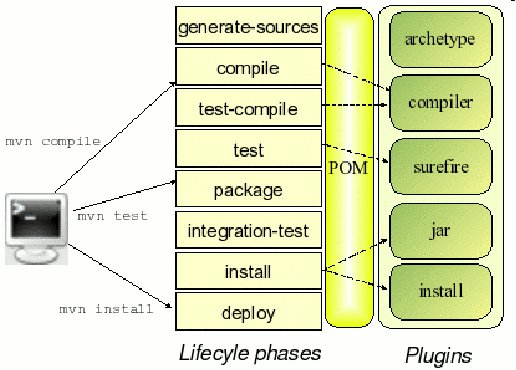
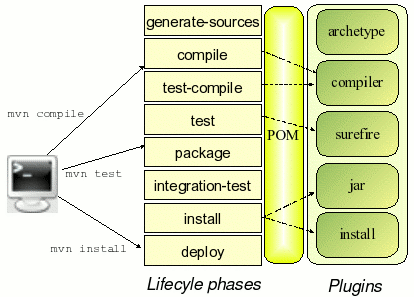
update tp

diff --git a/slides/index.html b/slides/index.html
@@ -62,14 +62,6 @@
 					</p>
 				</section>
 				<section>
-					<h2>Apports de Maven</h2>
-					<ul>
-						<li>Amélioration du processus de développement en suivant des bonnes pratiques</li>
-						<li>Automatisation et maîtrise du processus de construction</li>
-						<li>Meilleure fiabilité des livrables grâce notamment à l'intégration continue</li>
-					</ul>
-				</section>
-				<section>
 					<h2>De Make à Maven!</h2>
 					<img width="320" src="img/maven_evolution.jpg" alt="Maven Evolution">
 				</section>
@@ -79,23 +71,6 @@
 						<li>De l’expérience et des insuffisances de Ant </li>
 						<li>Du besoin de capitalisation des connaissances de la communauté Apache en terme de gestion de projet logiciel</li>
 						<li>Maven 3.0 : première release en octobre 2012</li>
-					</ul>
-				</section>
-				<section>
-					<h2>Ant</h2>
-					<ul>
-						<li>Rapide et simple au départ</li>
-						<li>Coût de maintenance et complexification lors d’évolutions des projets (surtout si larges)</li>
-						<li>Limitations (boucles, tests complexes, …)</li>
-					</ul>
-				</section>
-				<section>
-					<h2>Maven</h2>
-					<ul>
-						<li>Coût de prise en main mais vite rentabilisé</li>
-						<li>Plus haut niveau</li>
-						<li>Plus réutilisable</li>
-						<li><em>Convention over Configuration</em></li>
 					</ul>
 				</section>
 				<section>
@@ -134,6 +109,15 @@
 					</code></pre>
 				</section>
 				<section>
+					<h2>Convention over Configuration</h2>
+					<ul>
+						<li>src/main/java</li>
+						<li>src/main/resources</li>
+						<li>src/test/java</li>
+						<li>...</li>
+					</ul>
+				</section>
+				<section>
 					<h2>Spécifier très précisément vos dépendances avec Maven</h2>
 					<ul>
 						<li>Nom de la dépendance : groupId & artifactId</li>
@@ -161,9 +145,52 @@
 					</small>
 				</section>
 				<section>
+					<h2>Les mains dans le cambouis....</h2>
+					<h4>Installer Maven sur votre poste !</h4>
+					<ul>
+						<li>Dezipper l'archive apache-maven-3.0.4-bin.zip, soit <em>M2_HOME</em> ce répertoire</li>
+						<li>Settez la variable d'environnement <em>M2_HOME</em> et mettez à jour votre <em>PATH</em>
+						<li>Testez la ligne de commande suivante: <br/>
+						</li><code class="xml">mvn -version</code>
+					</ul>
+				</section>
+				<section>
+					<h2>Les mains dans le cambouis....</h2>
+					<h4>Comprende les fichiers de configuration!</h4>
+					<ul>
+						<li><em>M2_HOME</em>\conf\settings.xml: situé parmi les binaries Maven, configuration par poste </li>
+						<li>HOME\.m2\settings.xml : situé dans le répertoire utilisateur, configuration propre à un utilisateur</li>
+					</ul>
+				</section>
+				<section>
+					<h2>Les mains dans le cambouis....</h2>
+					<h4>Votre premier projet Maven !</h4>
+					<ul>
+						<li>Lancer votre nouveau projet en laissant les paramètres par défaut
+												<pre><code class="xml">
+mvn archetype:generate
+-DarchetypeGroupId=org.apache.maven.archetypes
+-DgroupId=com.ninjasquad
+-DartifactId=my-app
+						</code>
+						</li>
+						<li>Aller voir votre projet (pom.xml, répertoires, fichiers)</li>
+					</ul>
+
+					
+				</section>
+				<section>
+					<h2>Gérer les fichiers de configuration : pom.xml</h2>
+					<ul>
+						<li>situé au niveau du projet et de chaque module</li>
+						<li>il décrit la configuration spécifique à un projet ou un module</li>
+					</ul>
+				</section>
+				<section>
 					<h2>Cycle de vie et goals Maven (1/2)</h2>
 					<ul>
 						<li>A chaque phase du cycle correspond un goal</li>
+						<li>Par exemple : <code class="xml">mvn compile</code></li>
 						<li>Un goal est une commande Maven demandant la réalisation d’une étape.</li>
 						<li>En lançant un goal, on passe également par toutes les étapes antérieures</li>
 						<li>Portée : compile, runtime, test, provided</li>
@@ -171,7 +198,7 @@
 				</section>
 				<section>
 					<h2>Cycle de vie et goals Maven (2/2)</h2>
-					<p><img width="421" src="img/cycle_maven.jpg" alt="cycle_maven"></p>
+					<p><img width="331" src="img/cycle_maven.jpg" alt="cycle_maven"></p>
 				</section>
 				<section>
 					<h2>Phases principales (1/2)</h2>
@@ -191,43 +218,99 @@
 				</section>
 				<section>
 					<h2>Les mains dans le cambouis....</h2>
-					<h4>Gérer les fichiers de configuration</h4>
-					<ul>
-						<li>%M2_HOME\conf\settings.xml: situé parmi les binaries Maven, configuration par poste </li>
-						<li>%HOME%\.m2\settings.xml : situé dans le répertoire utilisateur, configuration propre à un utilisateur</li>
-						<li><em>deploy</em>: Réalisé dans un environnement d'intégration ou de production, copie le produit final dans un entrepôt distant pour être partagé avec d'autres développeurs ou projets.</li>
-					</ul>
-				</section>
-				<section>
-					<h2>Les mains dans le cambouis....</h2>
-					<h4>Gérer les fichiers de configuration : pom.xml</h4>
-					<ul>
-						<li>situé au niveau du projet et de chaque module</li>
-						<li>il décrit la configuration spécifique à un projet ou un module</li>
-					</ul>
-				</section>
-				<section>
-					<h2>Les mains dans le cambouis....</h2>
-					<h4>Installer Maven sur votre poste !</h4>
-					<ul>
-						<li>Dezipper l'archive apache-maven-3.0.4-bin.zip, soit %M2_HOME% ce répertoire</li>
-						<li>Vérifier votre %HOME%\.m2\settings.xml</li>
-						<li>Lancer votre nouveau projet: </li>
-					</ul>
-						<pre><code class="xml">
-mvn archetype:generate
--DarchetypeGroupId=org.apache.maven.archetypes
--DgroupId=com.ninjasquad
--DartifactId=my-app
-</code>
-				</section>
-				<section>
-					<h2>Les mains dans le cambouis....</h2>
-					<h4>Vos premiers goals</h4>
+					<h4>Vos premiers goals</h4><br/>
+					<h4>Amusez-vous sur votre projet à lancer ces différentes commandes</h4>
 					<ul>
 						<li><code>mvn clean install</code></li>
+						<li><code>mvn test</code></li>
 						<li><code>mvn site</code></li>
-						<li><code>mvn eclipse:eclipse</code></li>
+						<li>allez lire la doc : <a href="http://maven.apache.org/guides">maven.apache.org/guides</a></li>
+					</ul>
+				</section>
+				<section>
+					<h2>Les mains dans le cambouis....</h2>
+					<h4>Installer Maven dans Eclipse</h4><br/>
+					<ul>
+						<li>via Help -> Eclipse MarketPlace</li>
+						<li>Chercher le plugin <em>Maven Integration for Eclipse</em></li>
+						<li>Lancer la commande à la racine de votre projet : <br/><code>mvn eclipse:eclipse</code></li>
+						<li>Ouvrez votre projet via Eclipse (<em>Import Existing Maven Project</em>)</li>
+						<li>Apprenez à configurer des Executions Maven dans Eclipse sur votre projet (<em>Run Configurations</em>)</li>
+					</ul>
+				</section>
+				<section>
+					<h2>Les mains dans le cambouis....</h2>
+					<h4>Archetype Java Web</h4>
+					<ul>
+					<li>Lancer votre nouveau projet web
+					<pre><code class="xml">
+mvn archetype:generate
+-DgroupId=com.ninjasquad \
+-DartifactId=my-webapp \
+-Dversion=1.0-SNAPSHOT \
+-DarchetypeArtifactId=maven-archetype-webapp \
+-DinteractiveMode=false
+</code>
+					</li>
+					<li>Aller voir votre projet (pom.xml, répertoires, fichiers)</li>
+					</ul>
+				</section>
+				<section>
+					<h2>Les mains dans le cambouis....</h2>
+					<h4>Archetype Java Web</h4>
+					<h4>Lancer un packaging de votre projet et le déployer dans Tomcat!</h4>
+				</section>
+				<section>
+					<h2>Les mains dans le cambouis....</h4>
+					<h4>Configurer une construction Maven pour le déploiement Tomcat</h4>
+<img width="630" src="img/tomcat_deploy_eclipse.png" alt="tomcat deploy eclipse">
+				</section>
+				<section>
+					<h2>Les mains dans le cambouis....</h4>
+					<h4>Dans votre settings.xml, rajouter votre serveur tomcat et ses <em>credentials</em></h4>
+					<pre><code class="xml">
+&lt;server&gt;
+      &lt;id>myserver&lt;/id&gt;
+      &lt;username>tomcat&lt;/username&gt;
+      &lt;password>tomcat&lt;/password&gt;
+&lt;/server&gt;
+    </code></pre>
+				</section>
+				<section>
+					<h2>Les mains dans le cambouis....</h4>
+					<h4>Dans votre pom, ajouter le plugin tomcat7-maven-plugin (section <em>build</em>)</h4>
+<pre><code class="xml">
+&lt;pluginManagement&gt;
+	&lt;plugins&gt;
+		&lt;plugin&gt;
+		&lt;groupId&gt;org.apache.tomcat.maven&lt;/groupId&gt;
+		&lt;artifactId&gt;tomcat7-maven-plugin&lt;/artifactId&gt;
+		&lt;version&gt;2.0&lt;/version&gt;
+		&lt;configuration&gt;
+		&lt;url&gt;http://localhost:8080/manager/text&lt;/url&gt;
+		&lt;server&gt;myserver&lt;/server&gt;
+		&lt;path&gt;/my-webapp&lt;/path&gt;
+		&lt;/configuration&gt;
+		&lt;/plugin&gt;
+    &lt;/plugins&gt;
+&lt;/pluginManagement&gt;
+</code></pre>
+				</section>
+				<section>
+					<h2>Les mains dans le cambouis....</h4>
+					<h4>Démarrer Tomcat et lancer le goal maven</h4>
+					<pre><code class="xml">
+mvn tomcat7:deploy
+    </code></pre>
+				</section>
+				<section>
+					<h2>Les mains dans le cambouis....</h2>
+					<h4><em>Maveniser</em> un projet existant</h4>
+					<ul>
+						<li>Prenez un de vos projets existants</li>
+						<li>Maveniser-le!</li>
+						<li>Commencer par les dépendances</li>
+						<li>Puis jouer avec le reporting</li>
 					</ul>
 				</section>
 				<section>
@@ -237,7 +320,7 @@ mvn archetype:generate
 				</section>
 				<section>
 					<h2>Le cours</h2>
-					<h3>https://github.com/acrepet/maven-101</h3>
+					<h3><a href="https://github.com/acrepet/maven-101">https://github.com/acrepet/maven-101</a></h3>
 				</section>				
 				<section>
 					<h1>THE END</h1>
